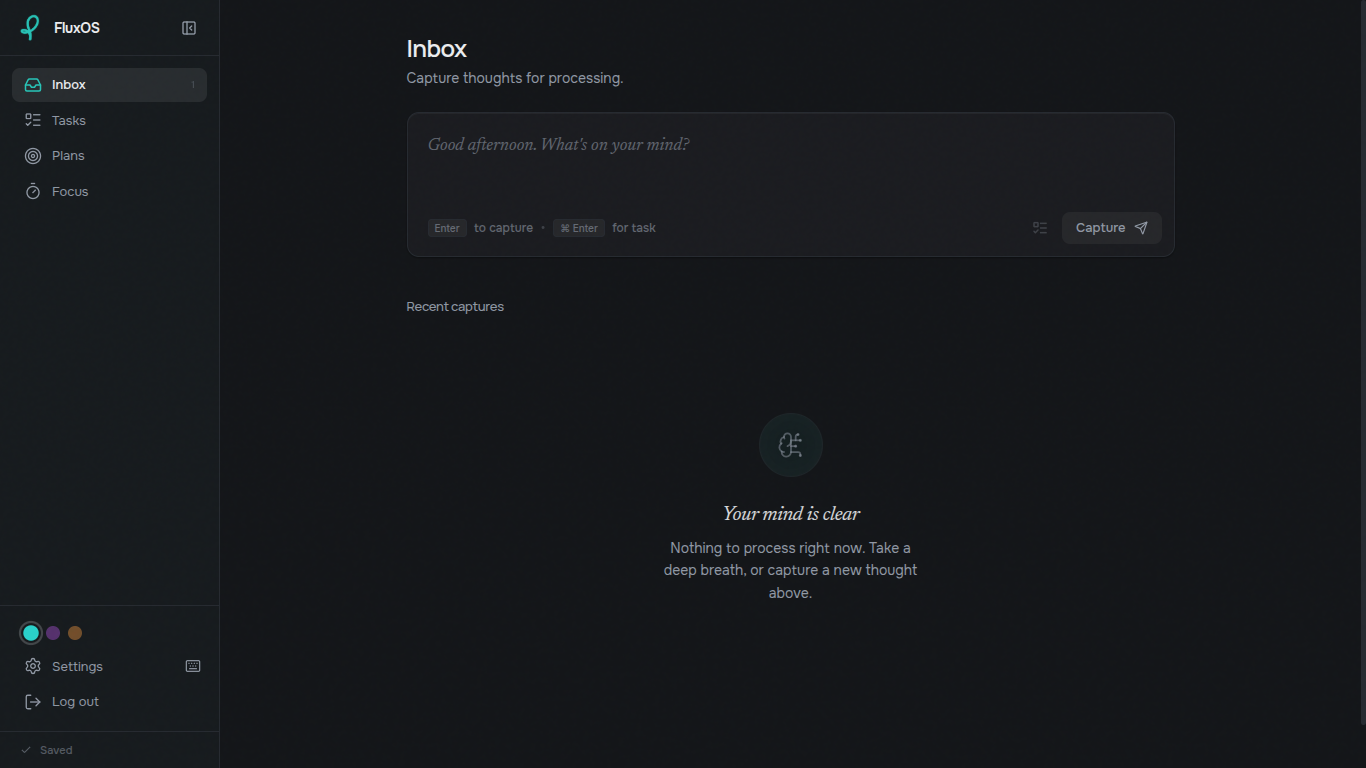
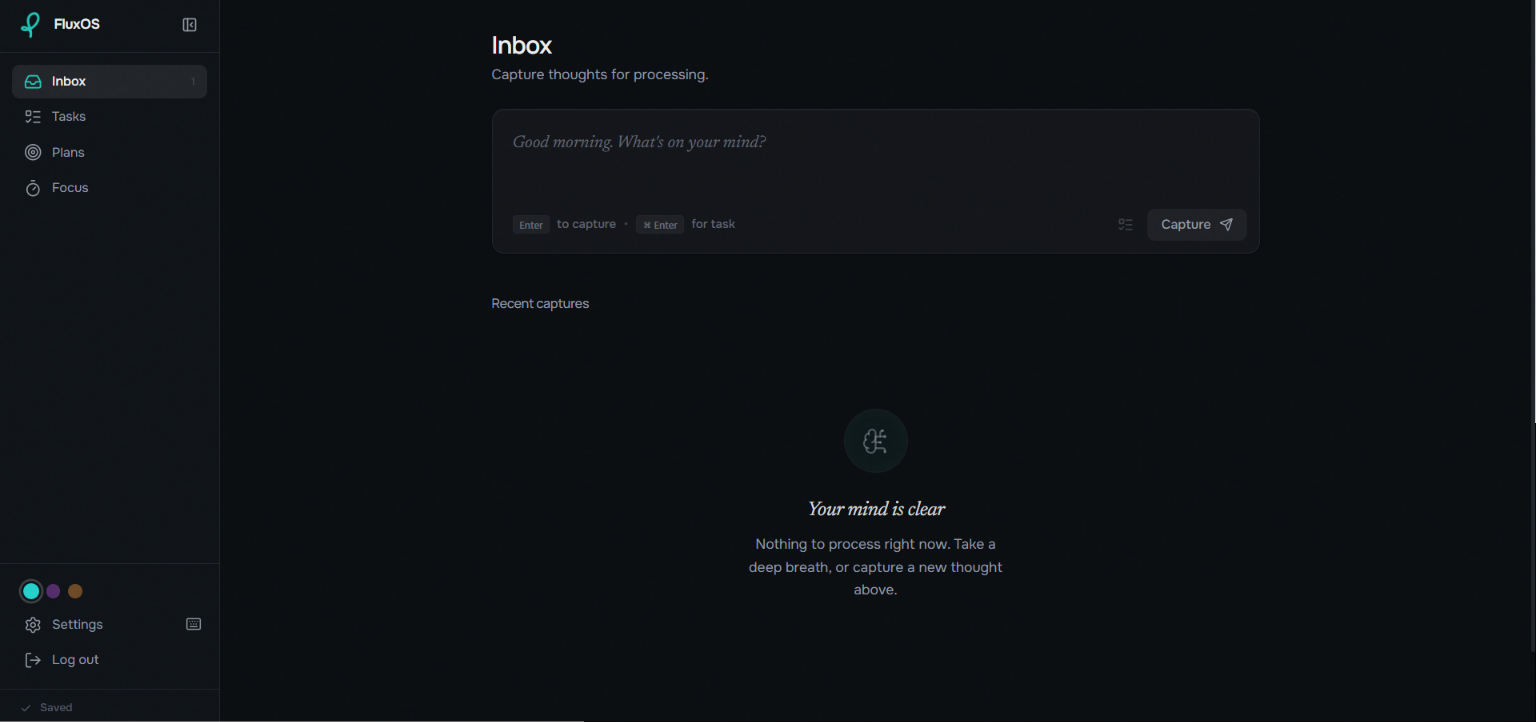
feat: update hero section layout and add new Open Graph images

diff --git a/app/[locale]/layout.tsx b/app/[locale]/layout.tsx
@@ -70,9 +70,9 @@ export async function generateMetadata(props: { params: Promise<{ locale: string
       siteName: "FluxOS",
       images: [
         {
-          url: "/image.png",
-          width: 1366,
-          height: 768,
+          url: `/og-${locale}.png`,
+          width: 1200,
+          height: 630,
           alt: t("ogTitle"),
         },
       ],
@@ -84,7 +84,7 @@ export async function generateMetadata(props: { params: Promise<{ locale: string
       title: t("ogTitle"),
       description: t("ogDescription"),
       creator: t("twitterHandle"),
-      images: ["/image.png"],
+      images: [`/og-${locale}.png`],
     },
     robots: {
       index: true,
